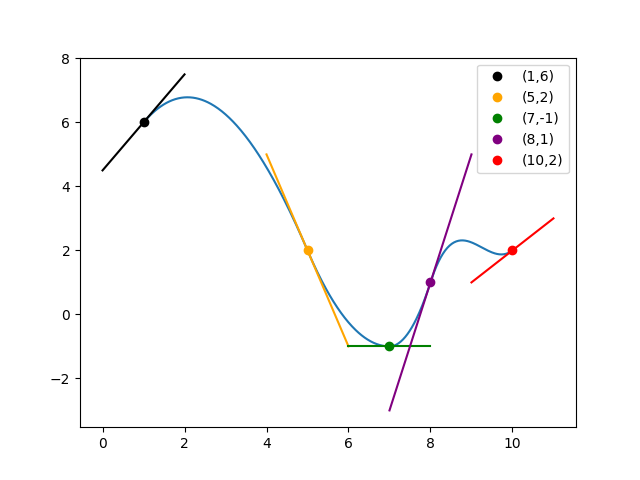
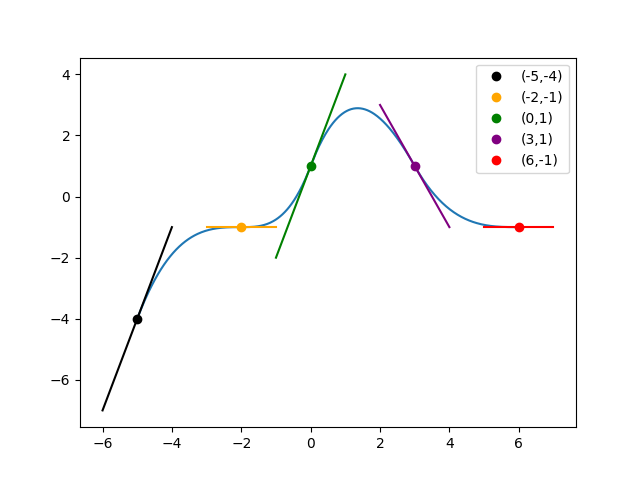
fix values

diff --git a/TP5/JUQUEL_HIRUTHAYARAJ_TP5_CODE.py b/TP5/JUQUEL_HIRUTHAYARAJ_TP5_CODE.py
@@ -39,9 +39,9 @@ def phi4(x):
 # pyplot.legend()
 # pyplot.show()
 
-X = [1, 5, 7, 8, 10]
-Y = [6, 2, -1, 1, 2]
-V = [3/2, -3, 0, 4, 1]
+X = [-5, -2, 0, 3, 6]
+Y = [-4, -1, 1, 1, -1]
+V = [3, 0, 3, -2, 0]
 colors = ['black', 'orange', 'green', 'purple', 'red']
 
 # Fonction qui calcule le polynôme d'Hermite P(x)
@@ -59,11 +59,11 @@ def foncHermite(X, Y, V, x):
 # Allure du polynôme d'Hermite
 
 
-x = numpy.linspace(1, 10, 500)
+x = numpy.linspace(X[0], X[-1], 500)
 pyplot.plot(x, [foncHermite(X, Y, V, i) for i in x])
-pyplot.show()
 for k in range(len(X)):
     pyplot.plot(X[k], Y[k], 'o', label="(" + str(X[k]) +
                 "," + str(Y[k]) + ")", color=colors[k])
     pyplot.plot((X[k]-1, X[k]+1), (Y[k]-V[k], Y[k]+V[k]), color=colors[k])
 pyplot.legend()
+pyplot.show()

diff --git a/TP5/README.md b/TP5/README.md
@@ -71,9 +71,9 @@ def phi4(x):
 2. Stockage des tableaux X,Y et V:
 
 ```python
-X = [1, 5, 7, 8, 10]
-Y = [6, 2, -1, 1, 2]
-V = [3/2, -3, 0, 4, 1]
+X = [-5, -2, 0, 3, 6]
+Y = [-4, -1, 1, 1, -1]
+V = [3, 0, 3, -2, 0]
 ```
 
 3. Ecriture de foncHermite qui renvoie le polynome de Hermite:
@@ -95,7 +95,7 @@ def foncHermite(X, Y, V, x):
 import numpy
 import matplotlib.pyplot as pyplot
 
-x = numpy.linspace(0, 10, 500)
+x = numpy.linspace(X[0], X[-1], 500)
 pyplot.plot(x, [foncHermite(X, Y, V, i) for i in x])
 pyplot.show()
 ```
